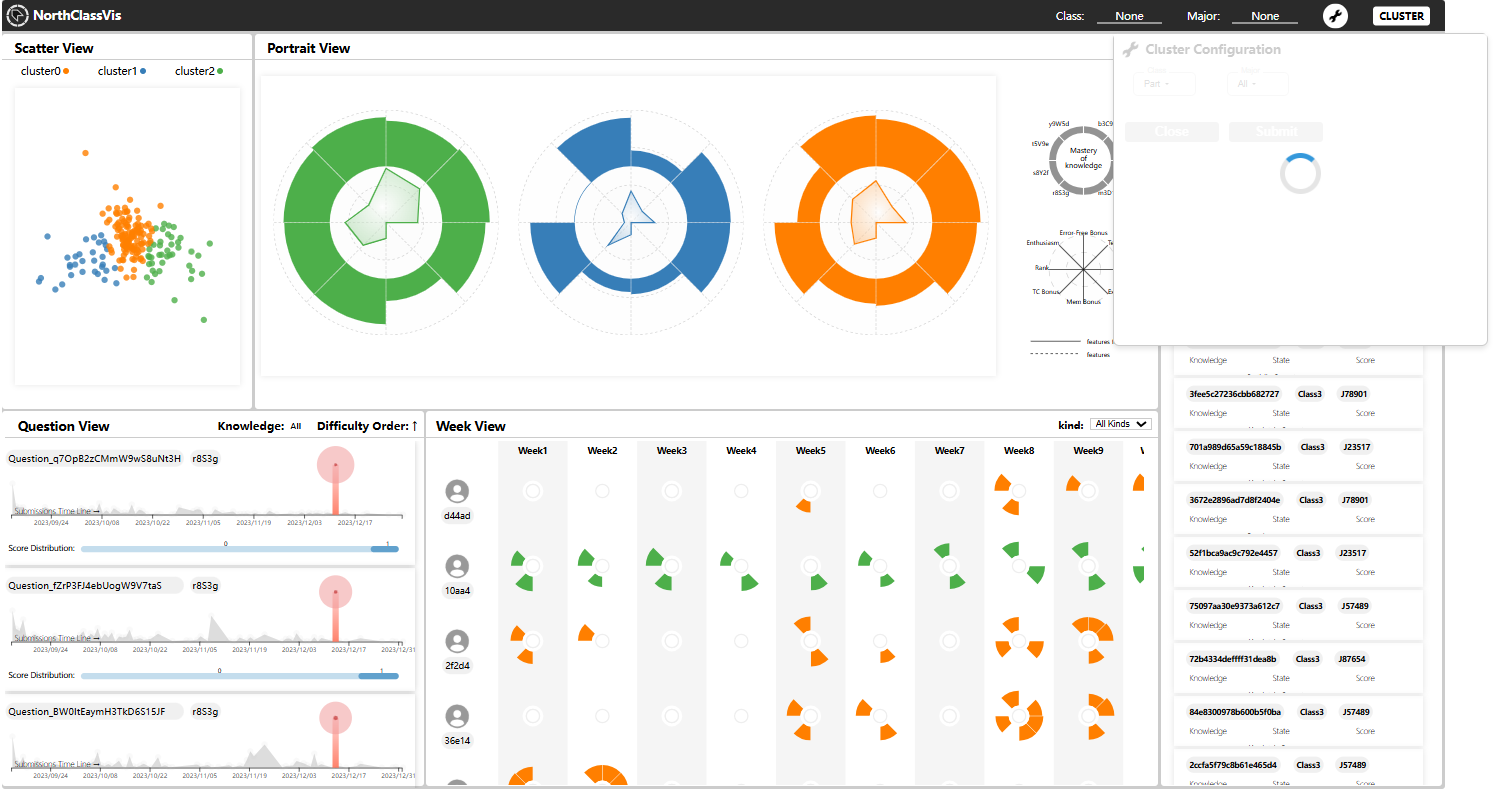
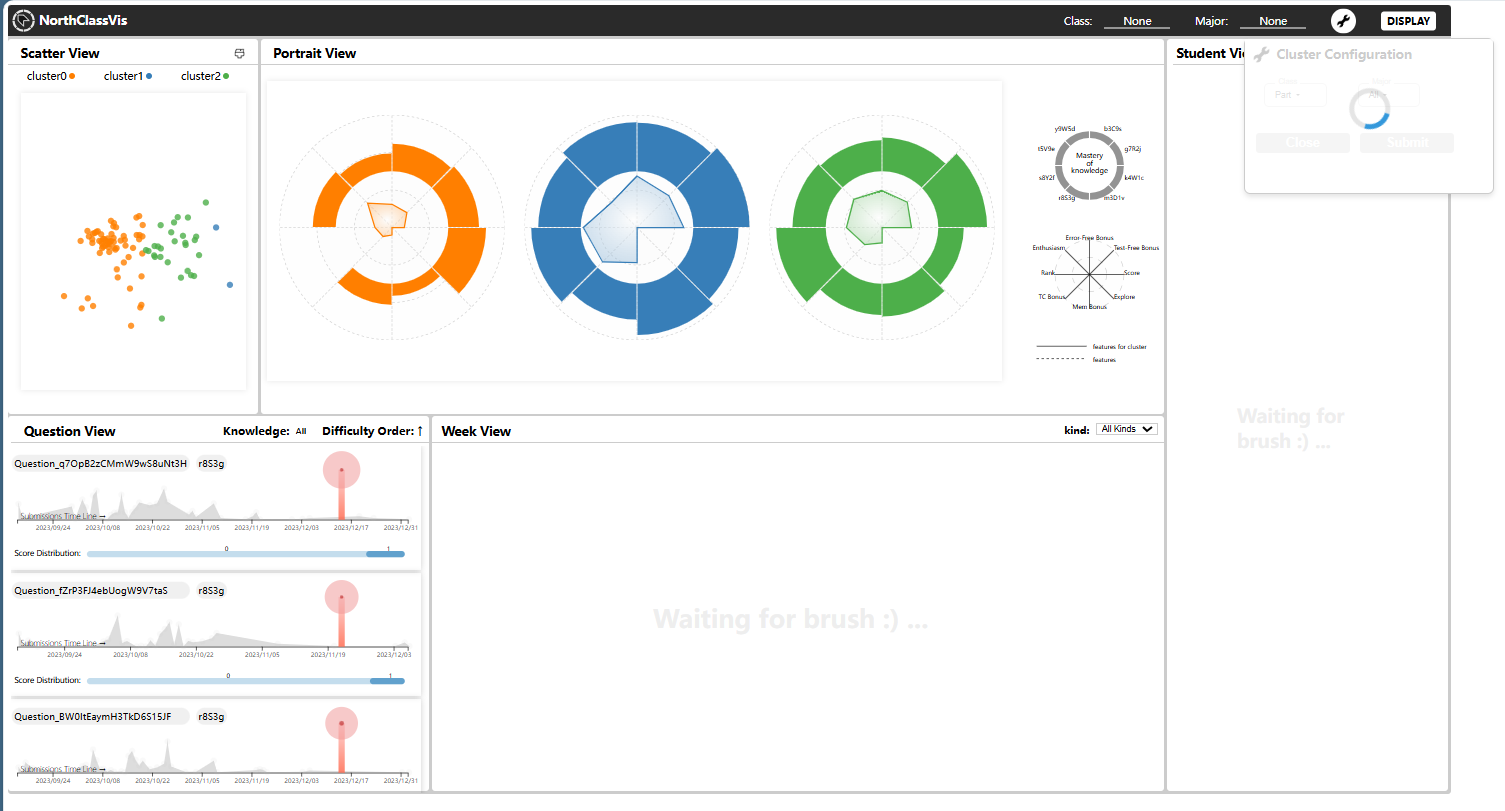
Final README

diff --git a/frontend/src/components/StudentView.vue b/frontend/src/components/StudentView.vue
@@ -285,13 +285,15 @@ export default {
       this.$refs.visualizationStu.innerHTML = '' // 清空现有内容
       this.loadInitialBatch() // 重新加载初始批次的数据
     },
-    async loadData() {
+    async loadData(render = true) {
       this.loading = true
       this.visibleIndices.clear() // 清空可见索引集合并重新加载
       this.expandedIndices.clear() // 清空展开索引集合并重新加载
       this.$refs.visualizationStu.innerHTML = '' // 清空现有内容
-      await this.getTreeData(this.getSelectedIds) // 初始化时获取学生数据
-      this.loadInitialBatch() // 重新加载初始批次的数据
+      if(render){
+        await this.getTreeData(this.getSelectedIds) // 初始化时获取学生数据
+        this.loadInitialBatch() // 重新加载初始批次的数据
+      }
       this.loading = false
     }
   },
@@ -299,13 +301,15 @@ export default {
     configLoaded(newVal) {
       if (newVal) {
         // 重新加载逻辑
-        this.loadData()
+        this.loadData(false)
+        this.isWaiting = true
       }
     },
     async getSelectedData(newVal) {
       if (!newVal) {
         return
       }
+      this.isWaiting = false
       this.loadData() 
     }
   }

diff --git a/frontend/src/components/WeekView.vue b/frontend/src/components/WeekView.vue
@@ -271,11 +271,13 @@ export default {
       // 重新渲染图表
       this.renderWeekData()
     },
-    async loadData() {
+    async loadData(render = true) {
       this.loading = true
       this.$d3.select('#visualizationW').selectAll('*').remove()
       this.weekData = []
-      await this.getWeekData(this.getSelectedIds)
+      if(render){
+        await this.getWeekData(this.getSelectedIds)
+      }
       this.loading = false
     }
   },
@@ -283,13 +285,15 @@ export default {
     configLoaded(newVal) {
       if (newVal && this.debugger) {
         // 重新加载逻辑
-        this.loadData()
+        this.loadData(false)
+        this.isWaiting = true
       }
     },
     async getSelectedData(newVal) {
       if (!newVal) {
         return
       }
+      this.isWaiting = false
       this.loadData() 
     }
   }

diff --git a/README.md b/README.md
@@ -125,22 +125,30 @@ npm run serve
 
 ![image-preview1](src/README/image-preview1.png)
 
-2.点击配置，等待配置成功
+2.点击submit按钮，等待后端配置成功
 
 ![image-preview2](src/README/image-preview2.png)
 
-3.等待其他组件计算渲染
+3.此时后端配置完成，前端部分组件也已经更新渲染
 
 ![image-preview3](src/README/image-preview3.png)
 
-4.渲染成功，鼠标靠近获取详细信息
+4.点击刷选工具，框选数据，点击DISPLAY按钮。随后可以在PortraitView看到被选中学生的指标平均值（黑色），Week/Student View后端正在计算
 
-![image-preview4](src/README/image-preview4.png)
+![image-preview4-1](src/README/image-preview4-1.png)
 
-（以下内容尚未完成......）
+5.再试着框选一些并点击DISPLAY，点击StudentView具体框可以展开
 
-5.点击选中元素/框选元素
+![image-preview4-2](src/README/image-preview4-2.png)
 
-6.点击CLUSTER处理被选择的样本，等待CLUSTER处理完毕
+6.WeekView展示的是被选中学生的每周不同知识点进展
 
-7.可见被处理元素
+![image-preview4-3](src/README/image-preview4-3.png)
+
+7. 其他一些样例，请欣赏
+
+![image-preview5-1](src/README/image-preview5-1.png)
+
+![image-preview5-2](src/README/image-preview5-2.png)
+
+<img src="src/README/image-preview7.png" alt="image-preview7" style="zoom: 27%;" /> <img src="src/README/image-preview6.png" alt="image-preview6" style="zoom: 27%;" />
